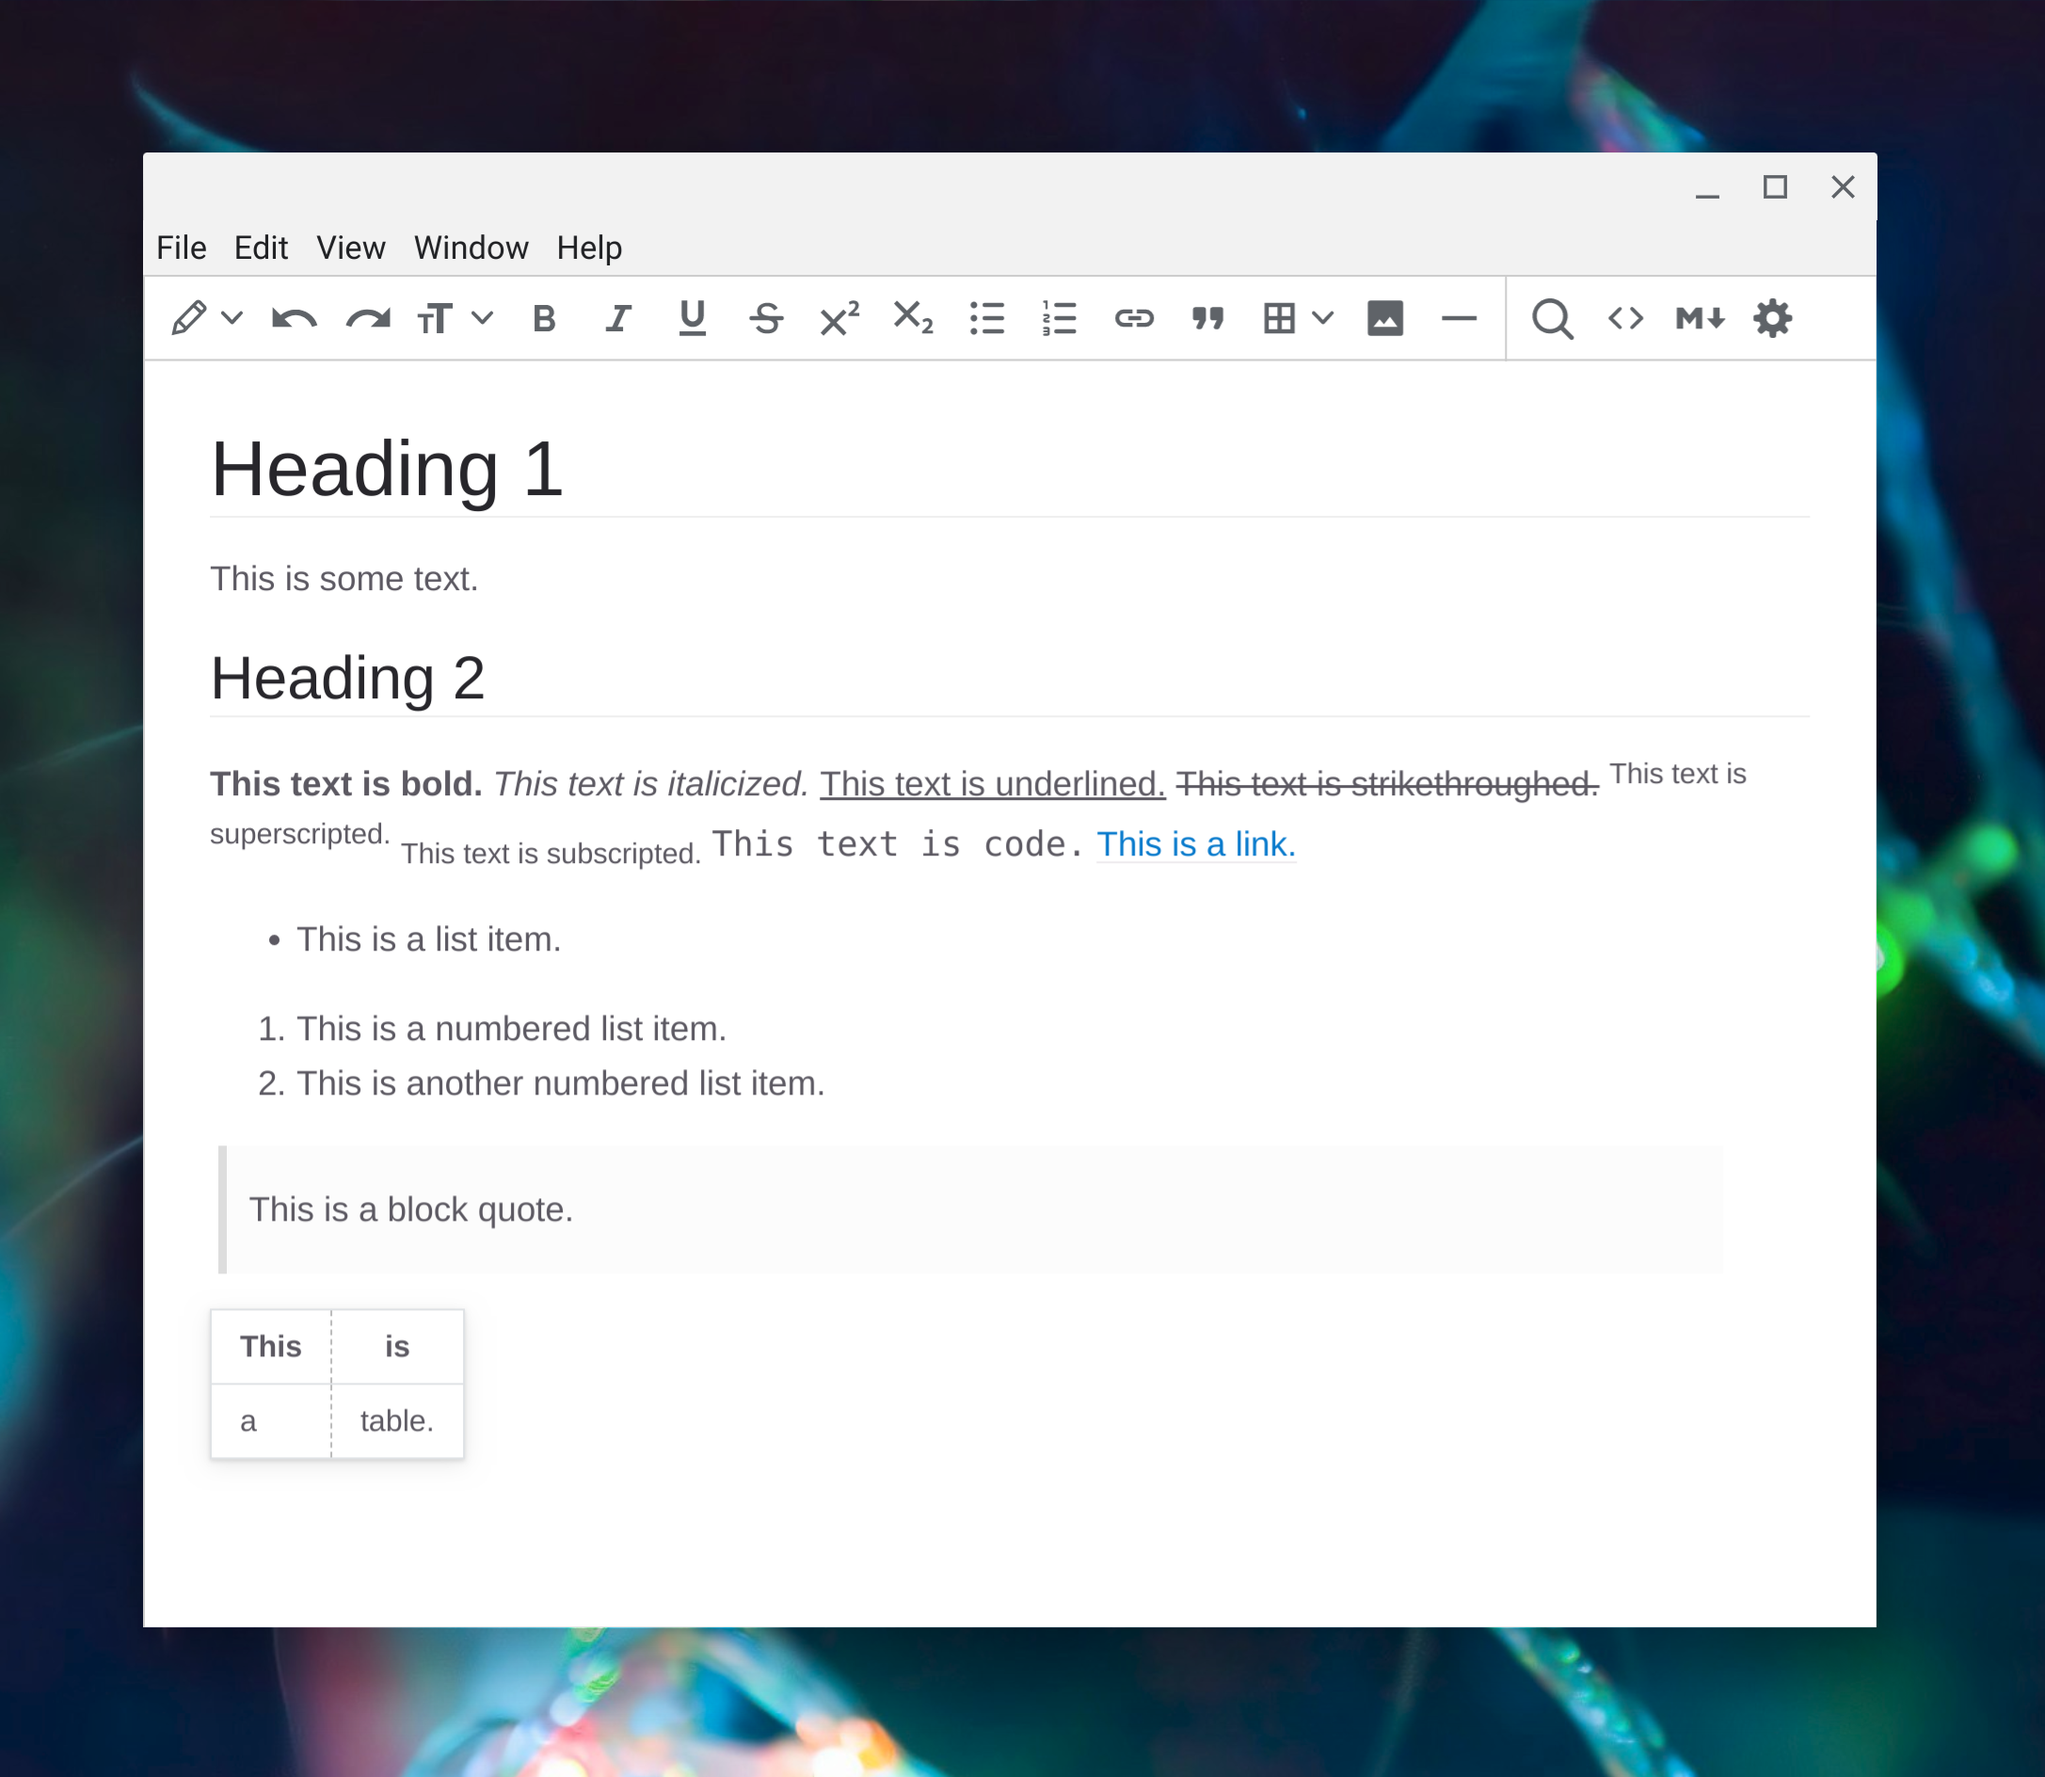
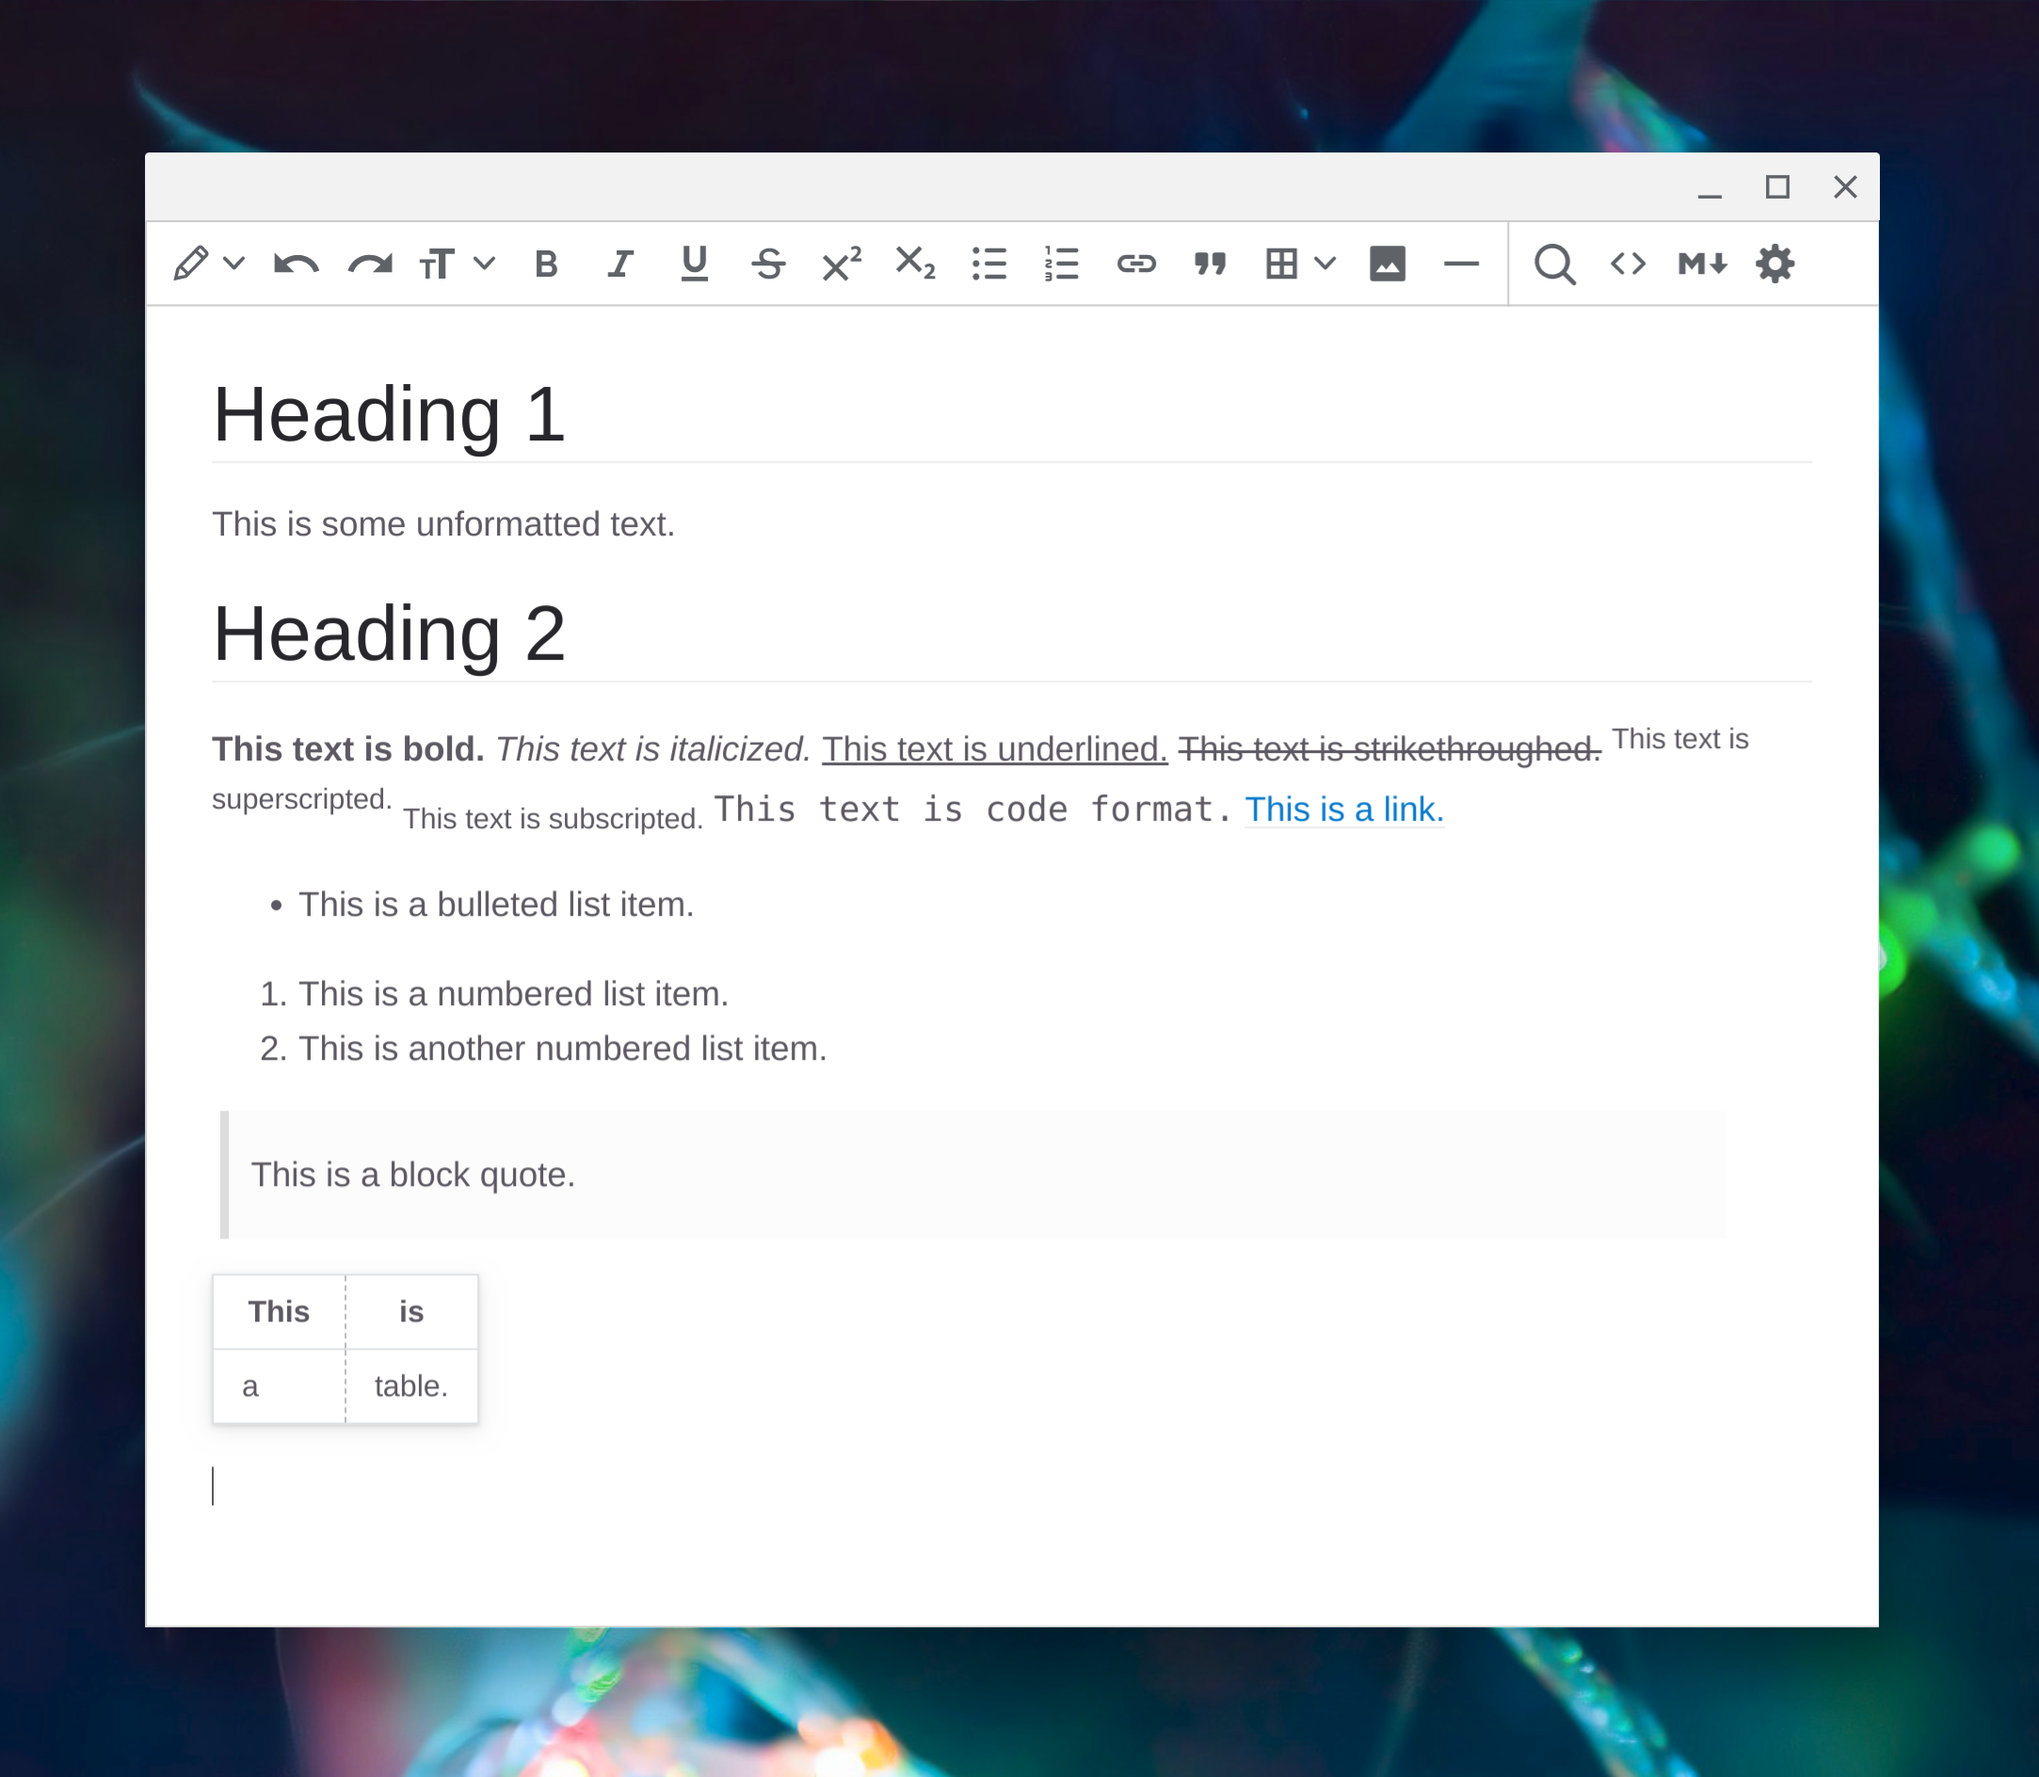
.

diff --git a/main.js b/main.js
@@ -39,9 +39,9 @@ function createWindow() {
     },
     spellcheck: false
   });
-  if (!isDev) {
+  //if (!isDev) {
     mainWindow.setMenuBarVisibility(false);
-  }
+  //}
   // and load the index.html of the app.
   mainWindow.loadURL(url.format({
     pathname: path.join(__dirname, 'index.html'),
